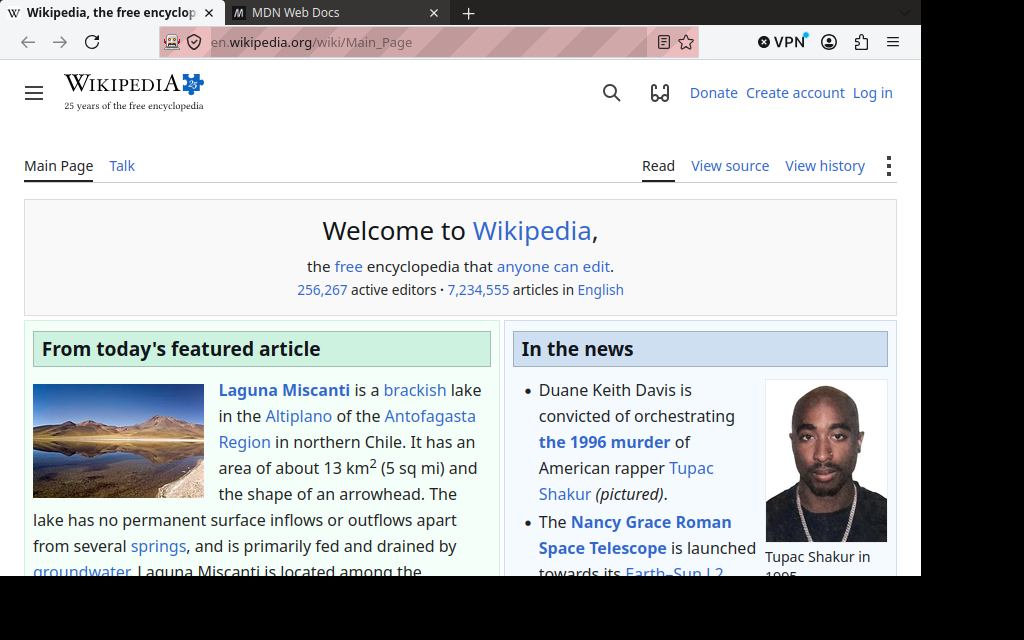
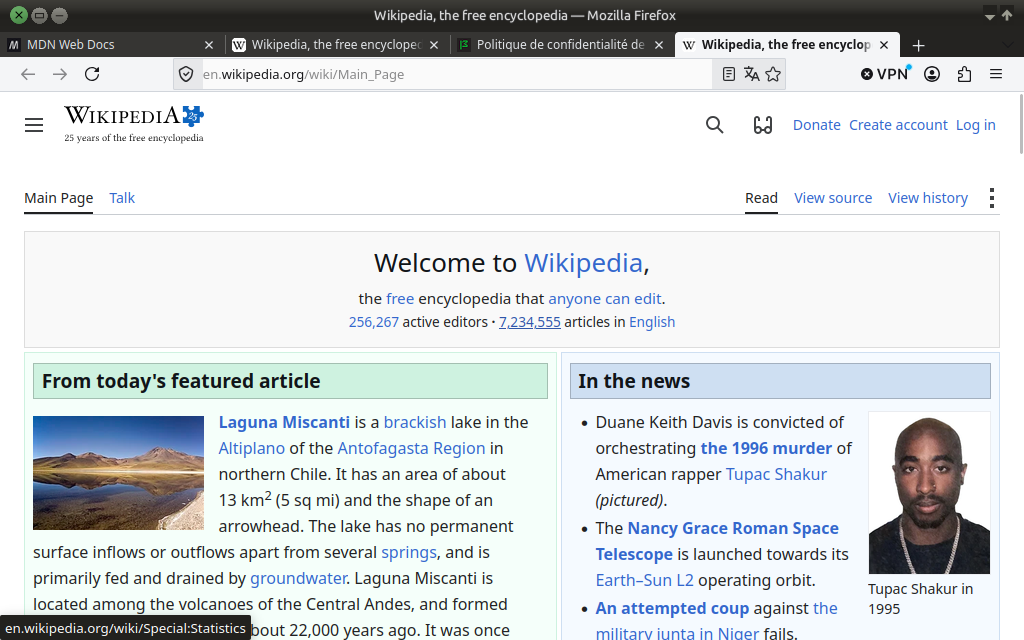
style: add --tabstrip-margin-top variable & update realistic screenshots with Crunchy theme

diff --git a/variantes/theme-clair.css b/variantes/theme-clair.css
@@ -51,6 +51,7 @@
   /* 6. Formes, Angles & Géométrie (Photon Brut & Low-tech) */
   --general-radius: 2px;                        /* Arrondi général (2px pour angles francs Photon) */
   --tab-height: 25px;                           /* Hauteur exacte Photon des onglets */
+  --tabstrip-margin-top: 2px;                   /* Marge au-dessus des onglets (0px sous Crunchy, 2px hors Crunchy) */
   --urlbar-height: 28px;                        /* Hauteur compacte de la barre d'adresse */
 
   /* ========================================================================
@@ -676,6 +677,7 @@ input::selection {
   --tab-min-height: var(--tab-height) !important;
   --tab-block-margin: 0 !important;
   --tab-margin-block: 0 !important;
+  margin-top: var(--tabstrip-margin-top, 0px) !important;
   margin-bottom: 0px !important;
   padding: 0 !important;
   border-bottom: none !important;

diff --git a/variantes/theme-sombre.css b/variantes/theme-sombre.css
@@ -51,6 +51,7 @@
   /* 6. Formes, Angles & Géométrie (Photon Brut & Low-tech) */
   --general-radius: 2px;                        /* Arrondi général (2px pour angles francs Photon) */
   --tab-height: 25px;                           /* Hauteur exacte Photon des onglets */
+  --tabstrip-margin-top: 2px;                   /* Marge au-dessus des onglets (0px sous Crunchy, 2px hors Crunchy) */
   --urlbar-height: 28px;                        /* Hauteur compacte de la barre d'adresse */
 
   /* ========================================================================
@@ -676,6 +677,7 @@ input::selection {
   --tab-min-height: var(--tab-height) !important;
   --tab-block-margin: 0 !important;
   --tab-margin-block: 0 !important;
+  margin-top: var(--tabstrip-margin-top, 0px) !important;
   margin-bottom: 0px !important;
   padding: 0 !important;
   border-bottom: none !important;
